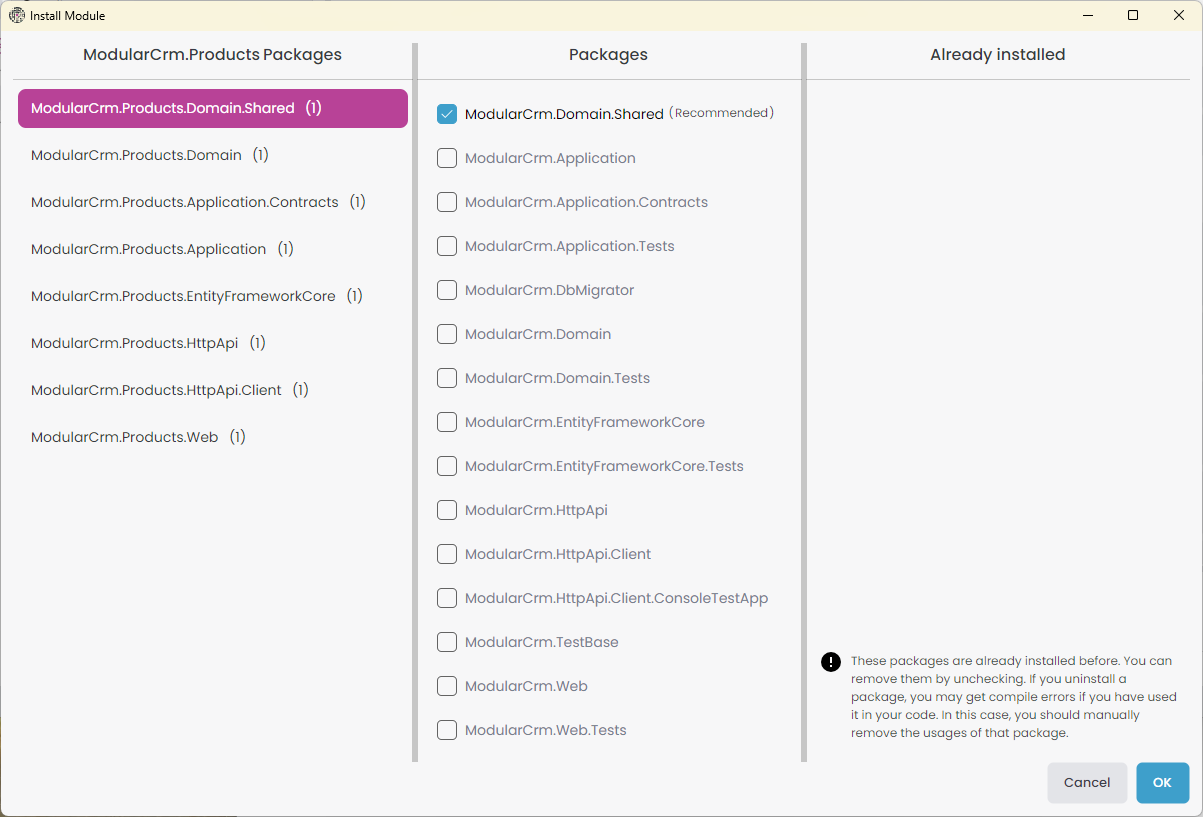
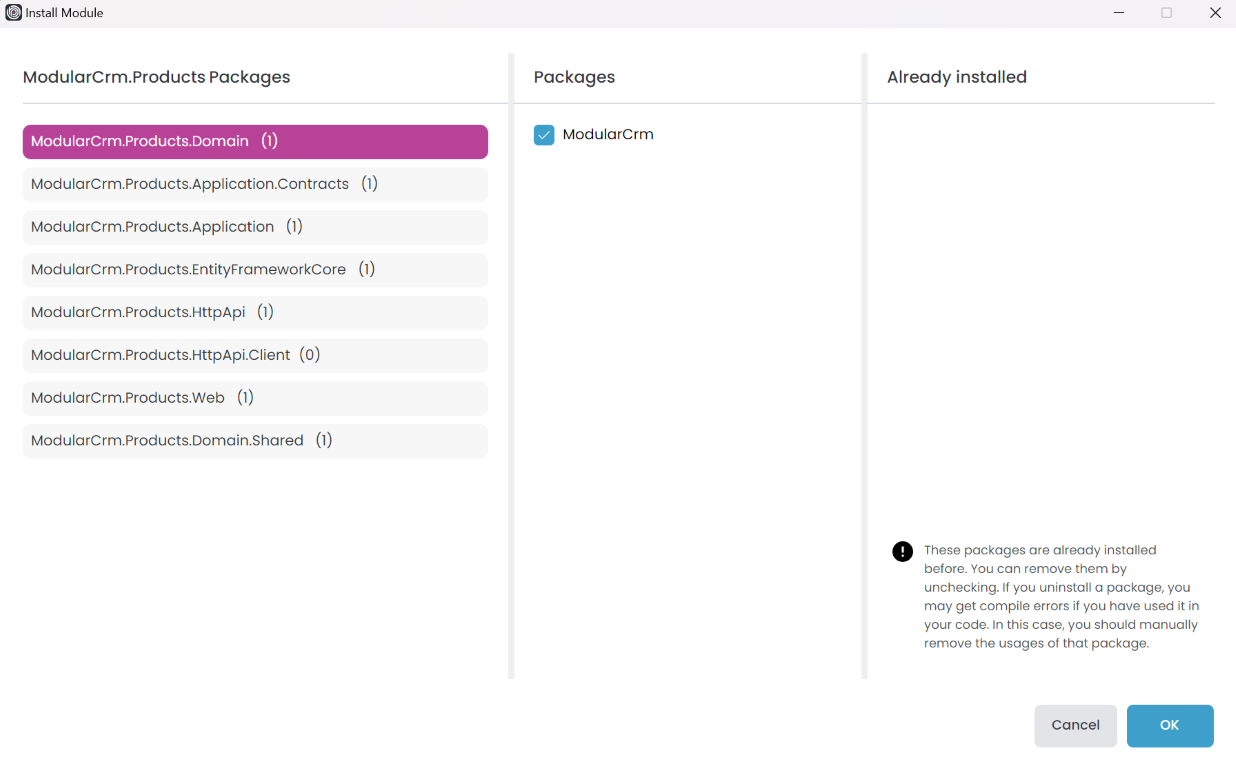
Update modular CRM tutorial to include Standard Module template and clarify installation for single-layer applications

diff --git a/docs/en/tutorials/modular-crm/part-02.md b/docs/en/tutorials/modular-crm/part-02.md
@@ -32,12 +32,13 @@ Create a `main` and a `modules` folder using the *New Folder* command, then move
 
 ## Creating The Module
 
-There are two module templates provided by ABP Studio:
+There are three module templates provided by ABP Studio:
 
 * **Empty Module**: You can use that module template to build your module structure from scratch.
 * **DDD Module**: A Domain Driven Design based layered module structure.
+* **Standard Module**: A module template that is similar to the DDD module but without the domain layer.
 
-We will use the *DDD Module* template for the Product module and the *Empty Module* template later in this tutorial.
+We will use the *DDD Module* template for the Product module and the *Standard Module* template later in this tutorial.
 
 Right-click the `modules` folder on the *Solution Explorer* panel, and select the *Add* -> *New Module* -> *DDD Module* command:
 
@@ -115,7 +116,7 @@ When you click the *OK* button, ABP Studio opens the *Install Module* dialog:
 
 ![abp-studio-module-installation-dialog](images/abp-studio-module-installation-dialog.png)
 
-This dialog simplifies installing a multi-layer module to a multi-layer application. It automatically determines which package of the `ModularCrm.Products` module should be installed to which package of the main application. For example, the `ModularCrm.Products.Domain` package is installed to the `ModularCrm.Domain` package. In that way, you can use domain objects ([entities](../../framework/architecture/domain-driven-design/entities.md), [repositories](../../framework/architecture/domain-driven-design/repositories.md), ...) of the products module from the domain layer of your main application.
+This dialog simplifies installing a multi-layer module to a single-layer application. It automatically determines which package of the `ModularCrm.Products` module should be installed to which package of the main application.
 
 The default package match is good for this tutorial, so you can click the *OK* button to proceed.
 
@@ -131,7 +132,7 @@ Graph Build is a dotnet CLI command that recursively builds all the referenced d
 
 ### Run the Main Application
 
-Open the *Solution Runner* panel, click the *Play* button (near to the solution root), right-click the `ModularCrm.Web` application and select the *Browse* command. It will open the web application in the built-in browser. Then you can navigate to the *Products* page on the main menu of the application to see the Products page that is coming from the `ModularCrm.Products` module:
+Open the *Solution Runner* panel, click the *Play* button (near to the solution root), right-click the `ModularCrm` application and select the *Browse* command. It will open the web application in the built-in browser. Then you can navigate to the *Products* page on the main menu of the application to see the Products page that is coming from the `ModularCrm.Products` module:
 
 ![abp-studio-solution-runner-initial-product-page](images/abp-studio-solution-runner-initial-product-page.png)
 
